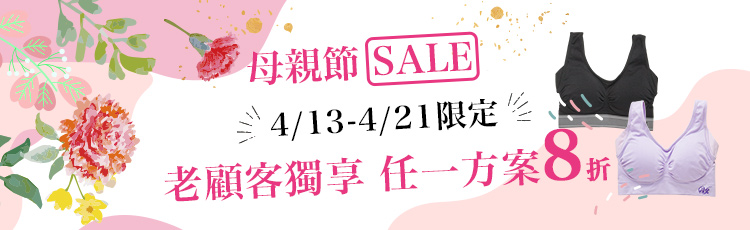
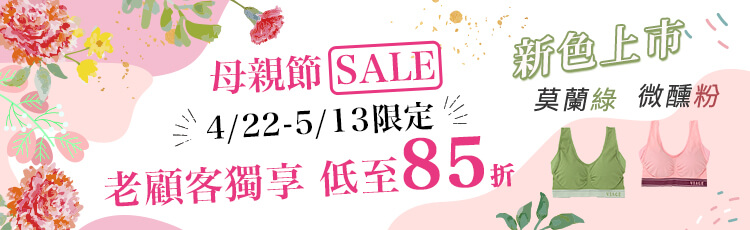
20210428_new color update

diff --git a/index.html b/index.html
@@ -94,6 +94,7 @@
                     <!-- size -->
                     <section class="fv">
                         <div class="center">
+                            <img src="images/vgdm30/06_newcolor.png" alt="">
                             <img src="images/vgdm30/07_size.jpg" alt="">
                             <img src="images/vgdm30/08_contact.jpg" alt="">
                         </div>
@@ -182,7 +183,7 @@
     <script src="../CommonFilesCrossing_TW2HK/js/jquery-3.3.1.min.js"></script>
     <script src="../CommonFilesCrossing_TW2HK/js/app_multi_product.min.js"></script>
     <script src="../CommonFilesCrossing_TW2HK/js/ga_param_cookie.js"></script>
-    <script src="../CommonFilesCrossing_TW2HK/js/other.js?ver=20210412"></script>
+    <script src="../CommonFilesCrossing_TW2HK/js/other.js?ver=20210419"></script>
     <script src="acsJs/multi-product.setting.js"></script>
     <script src="../CommonFilesCrossing_TW2HK/plugin/multi-product/js/multi-product.init.js?ver=20210129"></script>
     <script src="../CommonFilesCrossing_TW2HK/js/sf_hk_store_locker_macau.js?ver=20201207"></script>
